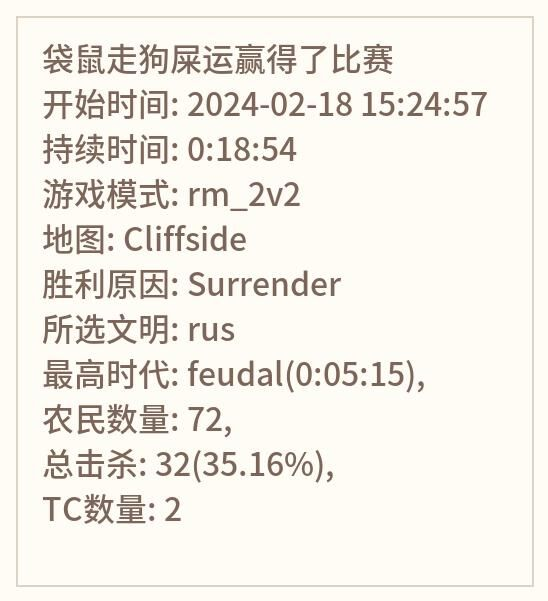
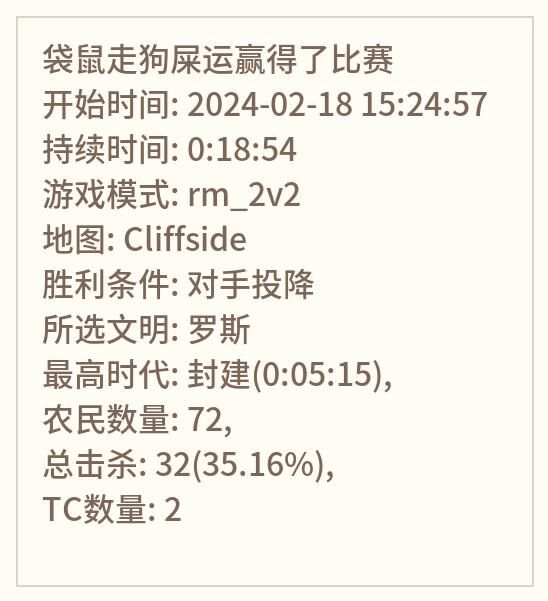
added more victory condition

Changed region(s): [[0.3412, 0.599, 0.7755, 0.6589], [0.3412, 0.4493, 0.6204, 0.5691], [0.1861, 0.4493, 0.3102, 0.5092]]

diff --git a/AOE4_dicts.py b/AOE4_dicts.py
@@ -59,9 +59,15 @@ AGE = {
 }
 
 REASON = {
+    "Annihilation": "单位全灭", # 不确定是否正确
+    "Conquest": "地标胜利",
+    "Culture": "文化胜利", # 不确定是否正确
+    "Elimination": "对手退出",
+    "Regicide": "击杀国王", # 不确定是否正确
+    "Religious": "宗教胜利", # 不确定是否正确
+    "Score": "分数胜利", # 不确定是否正确
     "Surrender": "对手投降",
-    "Conquest": "征服胜利",
-    "Elimination": "全灭胜利?",
-    "Relic": "神圣胜利", # 不确定
-    "Wonder": "奇观胜利", # 不确定
+    "Solidarity": "团队胜利", # 不确定是否正确
+    "Treaty": "外交胜利", # 不确定是否正确
+    "Wonder": "奇观胜利", # 不确定是否正确
 }

diff --git a/game_data.py b/game_data.py
@@ -256,7 +256,11 @@ class gameData:
         # 检测击杀数是否达标
         player_count_my_team = len(self.players) / 2
         my_kills_rate = my_kills / total_true_kills_my_team * 100
-        positive = my_balanced_kills > total_kills_my_team / player_count_my_team
+        positive = my_balanced_kills >= total_kills_my_team / player_count_my_team
+        print(my_result)
+        print(player_count_my_team)
+        print(my_balanced_kills, total_kills_my_team)
+        print(positive)
         # 检测是否胜利
         win = my_result == "win"
         if win and positive:
